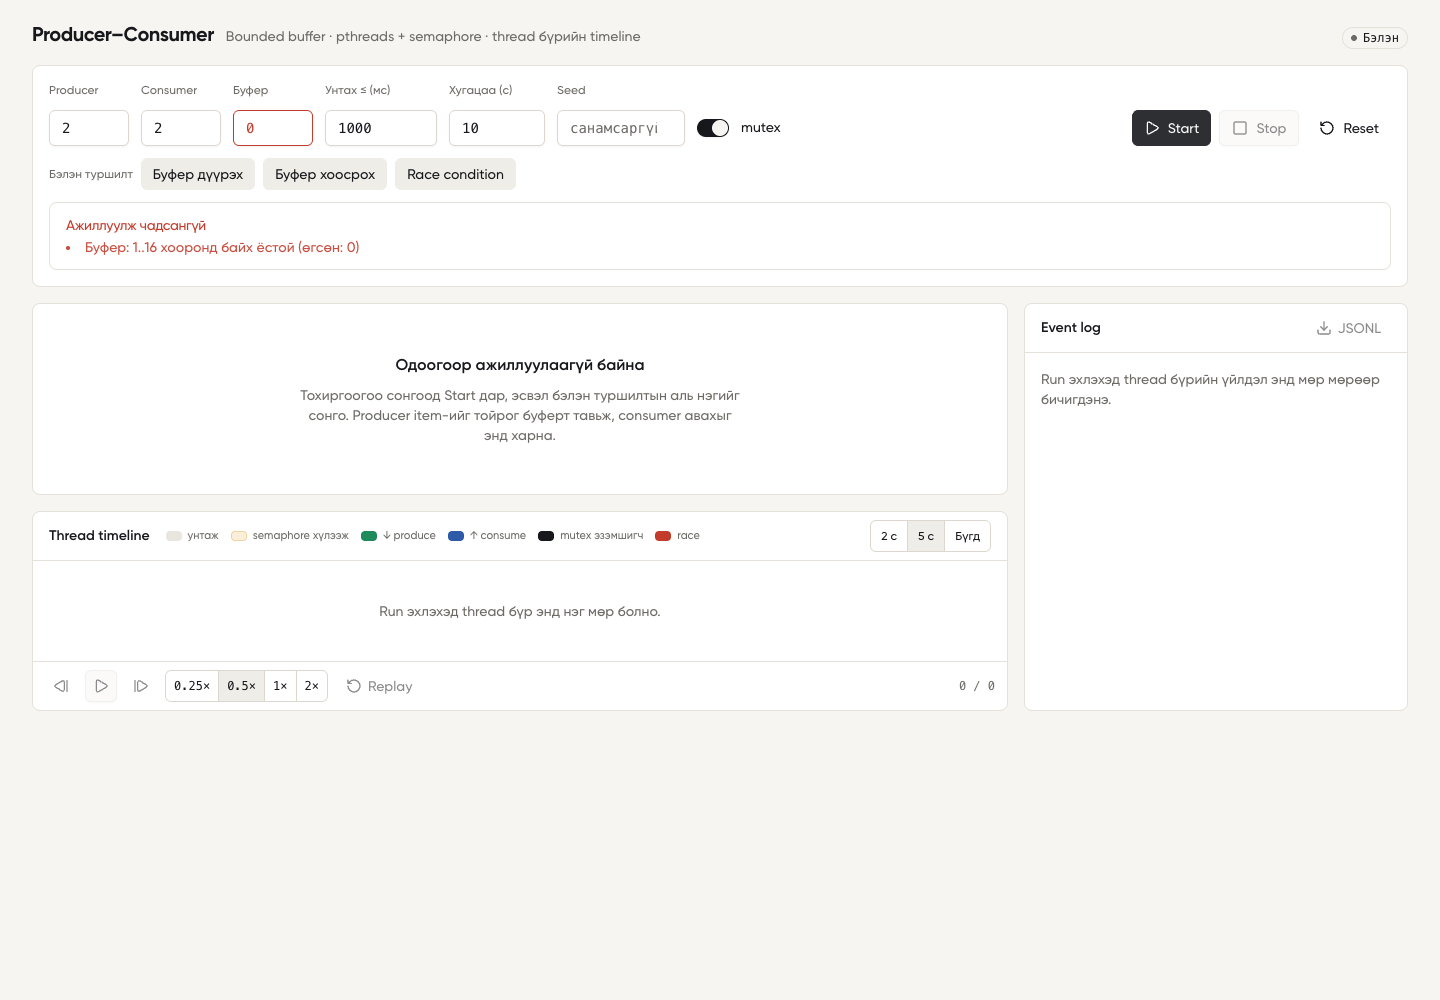
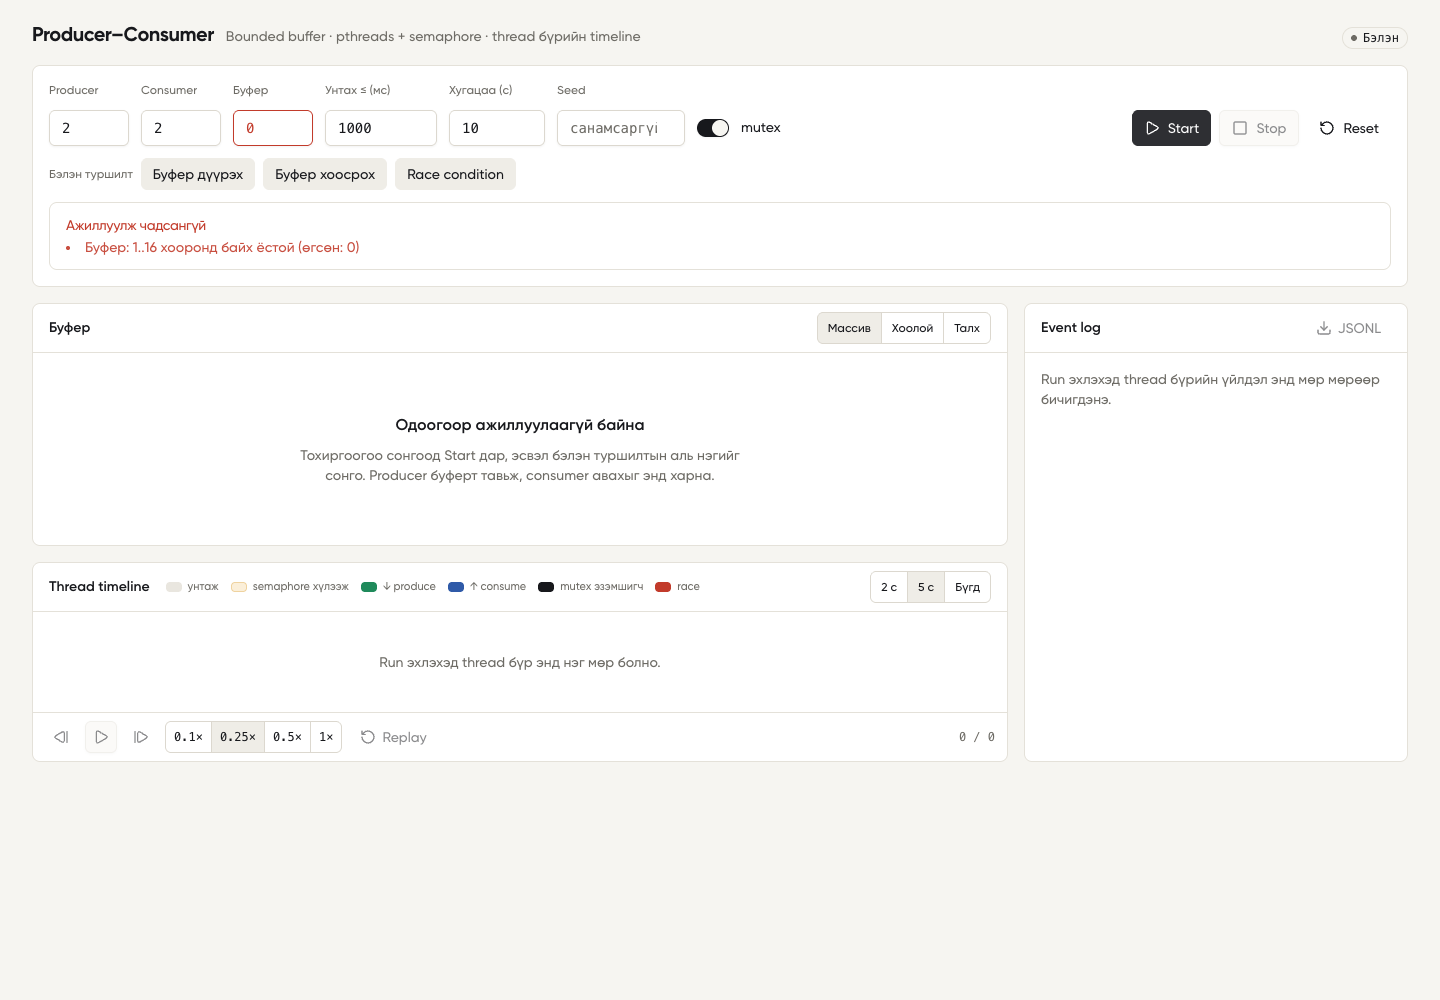
fix: describe the three buffer views in the Manual

diff --git a/docs/Manual.md b/docs/Manual.md
@@ -47,13 +47,12 @@ npm run dev
 - Timeline-ий баруун дээд буланд **2 с / 5 с / Бүгд** цонх: 2 с, 5 с үед timeline playhead-ийг дагаж гүйнэ. Утсан дээр анхдагчаар 2 с.
 
 ### Дүрслэлийн тэмдэг, өнгө, төлөв
-**Буферийн анимаци (дээд хэсэг)**
-- **Тойрог** = circular array. Ногоон үүр дотор item байна, саарал үүр хоосон. Үүрийн гадна талын тоо нь индекс.
-- **Ногоон зүү = `in`** (producer дараагийн тавих үүр), **цэнхэр зүү = `out`** (consumer дараагийн авах үүр). Зүү нь тойргийн дагуу эргэлдэнэ.
-- Item тавихад ногоон бөмбөлөг producer-оос үүр рүү, авахад цэнхэр бөмбөлөг үүрнээс consumer руу нисэнэ.
-- **`empty` ваар**: хар токен бүр нэг хоосон үүр. **`full` ваар**: ногоон токен бүр нэг дүүрсэн үүр. `sem_wait` нэг токен авна, токен байхгүй бол thread хүлээнэ.
-- **Түлхүүр тэмдэг**: mutex-ийг одоо эзэмшиж буй thread (тойргийн голд болон thread-ийн chip дээр). Mutex унтраалттай бол "mutex байхгүй" гэж улаанаар гарна.
-- Thread chip: саарал = унтаж байна, шар = semaphore хүлээж байна, ногоон/цэнхэр = буферт тавьж/авч байна.
+**Буферийн дүрслэл (дээд хэсэг)**. Баруун дээд буланд **Массив / Хоолой / Талх** товчоор гурван дүрслэлийн аль нэгийг сонгоно. Гурвуулаа ижил өгөгдлийг харуулна.
+- **Массив** (сурах бичгийн Figure 7.1 шиг): буфер = нүдний мөр (circular array). Ногоон нүдэнд item байна, саарал нүд хоосон. **▲in** (ногоон) нь producer-ийн дараагийн тавих нүд, **▲out** (цэнхэр) нь consumer-ийн дараагийн авах нүд, хоёулаа гулсаж шилжинэ. Сүүлийн нүдний дараа [0] руу эргэж ирнэ. `empty`, `full` мөр нь semaphore-ын утга, цоож нь mutex эзэмшигч.
+- **Хоолой** (FIFO): item зүүн талаас орж, баруун талаас гарна. Хамгийн баруун талынх нь хамгийн эрт орсон тул эхэлж авагдана. Тасархай тойрог = сул зай (`empty`), ногоон = item (`full`). Item бүрийн доор нүдний индекс бичигдэнэ.
+- **Талх** (видеоны жишээ): талхчин = producer, авагч = consumer, тавиур = буфер, "сул зайны тасалбар" = `empty`, "талхны тасалбар" = `full`, "нэг удаад нэг хүн" хаалга = mutex. Тайлбарын мөр энгийн үгээр гарна.
+- Item тавихад producer-оос нүд рүү бөмбөлөг нисэж очно, авахад нүднээс consumer руу нисэнэ.
+- Thread chip: саарал = унтаж байна, шар = semaphore хүлээж байна, ногоон/цэнхэр = буферт тавьж/авч байна, хүрээтэй + цоож = mutex эзэмшиж байна.
 
 **Thread timeline (доод хэсэг)**
 | Өнгө | Утга |
@@ -67,17 +66,21 @@ npm run dev
 | `count` мөр | буферт байгаа item-ийн тоо цаг хугацааны дагуу |
 
 ### Жишээ
-**Жишээ 1. Буфер дүүрэх** (P=4, C=1, буфер=2, ≤600 мс, 8 с, seed 7). Producer олон, consumer ганц тул буфер хурдан дүүрнэ: `empty` ваар хоосорч, producer-ууд шар (`empty = 0, хүлээж`) болно. Timeline дээр P1–P4-ийн мөрөнд урт шар зурвас харагдана. Төгсгөлд `Invariant OK`.
+**Жишээ 1. Буфер дүүрэх** (P=4, C=1, буфер=2, ≤600 мс, 8 с, seed 7). Producer олон, consumer ганц тул буфер хурдан дүүрнэ: `empty` мөр хоосорч, producer-ууд шар (`empty = 0, хүлээж`) болно. Timeline дээр P1–P4-ийн мөрөнд урт шар зурвас харагдана. Төгсгөлд `Invariant OK`.
 
 ![Буфер дүүрэх](screenshots/web_02_buffer_full.png)
 
-**Жишээ 2. Буфер хоосрох** (P=1, C=4, буфер=5). Consumer олон тул буфер ихэнхдээ хоосон: `full` ваар хоосон, consumer-ууд шар (`full = 0, хүлээж`).
+**Жишээ 2. Буфер хоосрох** (P=1, C=4, буфер=5, "Хоолой" дүрслэлээр). Consumer олон тул буфер ихэнхдээ хоосон: хоолой бүхэлдээ тасархай тойрог (`full = 0`), consumer-ууд шар (`full = 0, хүлээж`).
 
 ![Буфер хоосрох](screenshots/web_03_buffer_empty.png)
 
 **Жишээ 3. Race condition** (P=8, C=8, буфер=5, ≤5 мс, 1 с, mutex унтраалттай). Critical section хамгаалалтгүй тул timeline дээр олон улаан тэмдэг гарна. "Эхнийх рүү" дарж эхний race руу очиход доор нь тайлбар гарна, жишээ нь "count = 2, 3 байх ёстой". Зарим run-д төгсгөлд `Invariant БУРУУ` (тавьсан − авсан ≠ буферт) гарна, энэ нь шинэчлэл алдагдсаныг (lost update) баталгаажуулна. Mutex-тэй ижил тохиргоонд race 0 гарна.
 
 ![Race condition](screenshots/web_04_race.png)
+
+**Жишээ 4. Талхны дэлгүүрээр** ("Талх" дүрслэл, Буфер дүүрэх тохиргоо). Талхчид "тавиур дүүрэн, хүлээж", сул зайны тасалбар 0.
+
+![Талх дүрслэл](screenshots/web_07_bakery.png)
 ![Эхний race дээр зогссон үе, Event log](screenshots/web_05_race_log.png)
 
 ### Түгээмэл алдаа ба шийдэл
